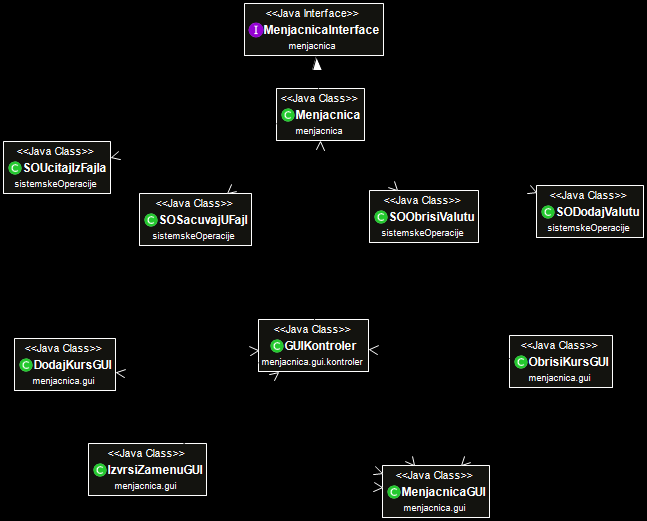
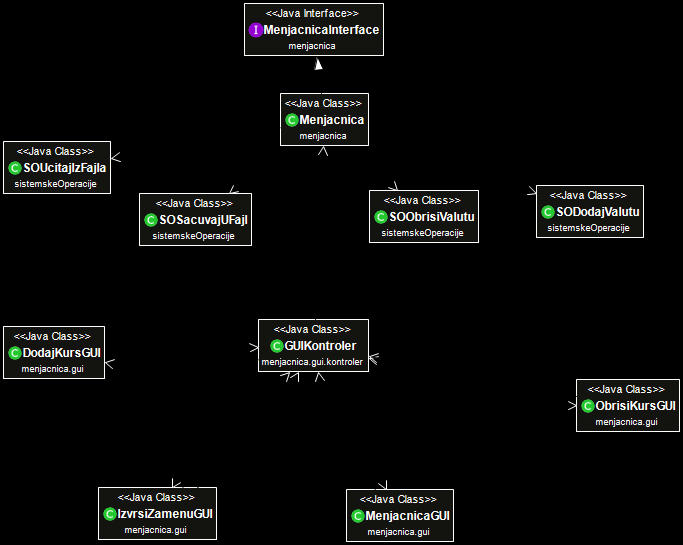
Izvrsene izmene vezane za prezentacioni nivo aplikacije.

diff --git a/menjacnica/src/menjacnica/gui/kontroler/GUIKontroler.java b/menjacnica/src/menjacnica/gui/kontroler/GUIKontroler.java
@@ -18,6 +18,7 @@ import menjacnica.gui.models.MenjacnicaTableModel;
 public class GUIKontroler {
 
 	public static MenjacnicaGUI gp;
+	public static GUIKontroler k;
 	public static Menjacnica m;
 
 	/**
@@ -30,6 +31,7 @@ public class GUIKontroler {
 					GUIKontroler.gp = new MenjacnicaGUI();
 					gp.setVisible(true);
 					m = new Menjacnica();
+			
 				} catch (Exception e) {
 					e.printStackTrace();
 				}
@@ -38,7 +40,7 @@ public class GUIKontroler {
 	}
 
 	public static void prikaziDodajKursGUI() {
-		DodajKursGUI prozor = new DodajKursGUI(gp);
+		DodajKursGUI prozor = new DodajKursGUI(k);
 		prozor.setLocationRelativeTo(gp);
 		prozor.setVisible(true);
 	}
@@ -47,7 +49,7 @@ public class GUIKontroler {
 
 		if (table.getSelectedRow() != -1) {
 			MenjacnicaTableModel model = (MenjacnicaTableModel) (table.getModel());
-			ObrisiKursGUI prozor = new ObrisiKursGUI(gp, model.vratiValutu(table.getSelectedRow()));
+			ObrisiKursGUI prozor = new ObrisiKursGUI(k, model.vratiValutu(table.getSelectedRow()));
 			prozor.setLocationRelativeTo(gp);
 			prozor.setVisible(true);
 		}
@@ -57,7 +59,7 @@ public class GUIKontroler {
 		if (table.getSelectedRow() != -1) {
 			MenjacnicaTableModel model = (MenjacnicaTableModel)(table.getModel());
 			
-			IzvrsiZamenuGUI prozor = new IzvrsiZamenuGUI(gp,
+			IzvrsiZamenuGUI prozor = new IzvrsiZamenuGUI(k,
 					model.vratiValutu(table.getSelectedRow()));
 			
 			prozor.setLocationRelativeTo(gp);

diff --git a/menjacnica/src/menjacnica/gui/DodajKursGUI.java b/menjacnica/src/menjacnica/gui/DodajKursGUI.java
@@ -1,7 +1,5 @@
 package menjacnica.gui;
 
-import java.awt.BorderLayout;
-import java.awt.EventQueue;
 
 import javax.swing.JFrame;
 import javax.swing.JPanel;
@@ -10,15 +8,12 @@ import javax.swing.border.EmptyBorder;
 import java.awt.GridLayout;
 
 import javax.swing.JLabel;
-import javax.swing.JOptionPane;
 import javax.swing.JTextField;
 import javax.swing.JButton;
 import javax.swing.SwingConstants;
 import javax.swing.JSpinner;
-import javax.swing.JTable;
 import javax.swing.SpinnerNumberModel;
 
-import menjacnica.Valuta;
 import menjacnica.gui.kontroler.GUIKontroler;
 
 import java.awt.event.ActionListener;
@@ -42,13 +37,14 @@ public class DodajKursGUI extends JFrame {
 	private JButton btnDodaj;
 	private JButton btnOdus;
 
-	private MenjacnicaGUI glavniProzor;
+	//private MenjacnicaGUI glavniProzor;
+	private GUIKontroler glavniProzor;
 	private JSpinner spinnerSifra;
 
 	/**
 	 * Create the frame.
 	 */
-	public DodajKursGUI(MenjacnicaGUI glavniProzor) {
+	public DodajKursGUI(GUIKontroler glavniProzor) {
 		setIconImage(Toolkit.getDefaultToolkit().getImage(DodajKursGUI.class.getResource("/icons/Screenshot.png")));
 		setResizable(false);
 		setTitle("Dodaj kurs");

diff --git a/menjacnica/src/menjacnica/gui/IzvrsiZamenuGUI.java b/menjacnica/src/menjacnica/gui/IzvrsiZamenuGUI.java
@@ -52,13 +52,14 @@ public class IzvrsiZamenuGUI extends JFrame {
 	private JLabel lblKonacniIznos;
 	private JTextField textFieldKonacniIznos;
 
-	private MenjacnicaGUI glavniProzor;
+//	private MenjacnicaGUI glavniProzor;
+	private GUIKontroler glavniProzor;
 	private Valuta valuta;
 
 	/**
 	 * Create the frame.
 	 */
-	public IzvrsiZamenuGUI(MenjacnicaGUI glavniProzor, Valuta valuta) {
+	public IzvrsiZamenuGUI(GUIKontroler glavniProzor, Valuta valuta) {
 		setIconImage(Toolkit.getDefaultToolkit().getImage(IzvrsiZamenuGUI.class.getResource("/icons/Screenshot.png")));
 		setTitle("Izvrsi zamenu");
 		setDefaultCloseOperation(JFrame.DISPOSE_ON_CLOSE);

diff --git a/menjacnica/src/menjacnica/gui/ObrisiKursGUI.java b/menjacnica/src/menjacnica/gui/ObrisiKursGUI.java
@@ -43,13 +43,14 @@ public class ObrisiKursGUI extends JFrame {
 	private JCheckBox chckbxZaistaObrisiKurs;
 	private JLabel label;
 	
-	private MenjacnicaGUI glavniProzor;
+//	private MenjacnicaGUI glavniProzor;
+	private GUIKontroler glavniProzor;
 	private Valuta valuta;
 
 	/**
 	 * Create the frame.
 	 */
-	public ObrisiKursGUI(MenjacnicaGUI glavniProzor, Valuta valuta) {
+	public ObrisiKursGUI(GUIKontroler glavniProzor, Valuta valuta) {
 		setIconImage(Toolkit.getDefaultToolkit().getImage(ObrisiKursGUI.class.getResource("/icons/Screenshot.png")));
 		setResizable(false);
 		setTitle("Obrisi kurs");
